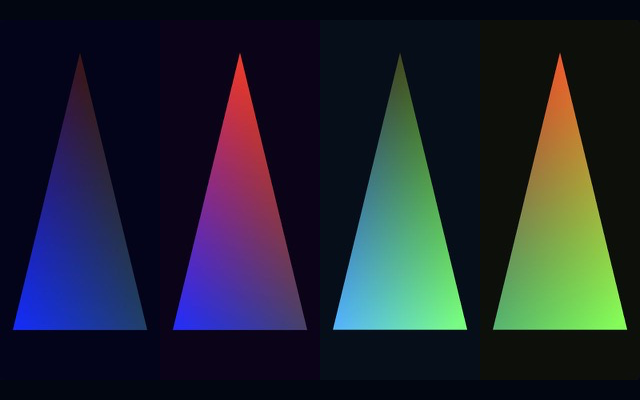
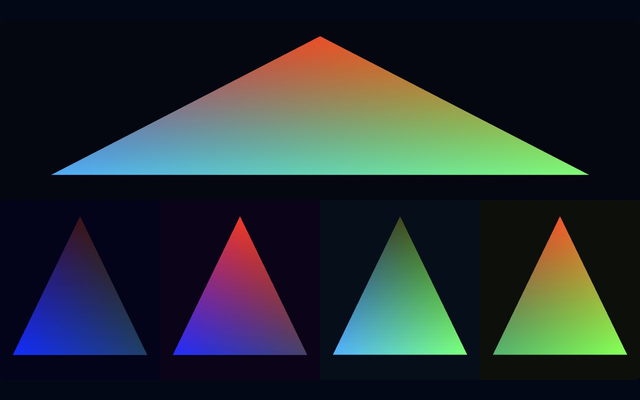
compare msaa resolve

diff --git a/samples/webgpu-gallery/index.html b/samples/webgpu-gallery/index.html
@@ -221,13 +221,13 @@
         <article class="sample-card">
           <a class="sample-preview" href="gpu-msaa-samples-webgpu-usl.html?v=@GPU_WEBGPU_GALLERY_VERSION@">
             <img src="previews/msaa-samples.png?v=@GPU_WEBGPU_GALLERY_VERSION@"
-                 alt="Four tinted previews of one multisampled triangle"
+                 alt="One resolved triangle above four tinted multisample previews"
                  width="640" height="400" loading="lazy" decoding="async">
           </a>
           <div>
             <small>Render / 16</small>
-            <h3><a href="gpu-msaa-samples-webgpu-usl.html?v=@GPU_WEBGPU_GALLERY_VERSION@">MSAA samples</a></h3>
-            <p>A 4x render target is rebound and each multisample value is read explicitly.</p>
+            <h3><a href="gpu-msaa-samples-webgpu-usl.html?v=@GPU_WEBGPU_GALLERY_VERSION@">MSAA resolve + samples</a></h3>
+            <p>Hardware resolve and four explicit sample reads share one 4x render target.</p>
           </div>
         </article>
       </div>

diff --git a/samples/msaa-samples-webgpu-usl/main.c b/samples/msaa-samples-webgpu-usl/main.c
@@ -17,9 +17,12 @@ typedef struct WebGPUMSAASamples {
   GPUShaderLibrary  *library;
   GPUShaderLayout   *shaderLayout;
   GPURenderPipeline *sourcePipeline;
-  GPURenderPipeline *previewPipeline;
+  GPURenderPipeline *resolvePipeline;
+  GPURenderPipeline *samplePipeline;
   GPUTexture        *colorTexture;
+  GPUTexture        *resolveTexture;
   GPUTextureView    *colorView;
+  GPUTextureView    *resolveView;
   GPUBindGroup      *previewGroup;
   WebGPURequest      request;
   uint32_t           width;
@@ -50,16 +53,20 @@ device_error(GPUDevice                *device,
 }
 
 static int
-create_color_target(WebGPUMSAASamples *state,
-                    uint32_t           width,
-                    uint32_t           height) {
+create_color_targets(WebGPUMSAASamples *state,
+                     uint32_t           width,
+                     uint32_t           height) {
+  GPUTexture              *colorTexture;
+  GPUTexture              *resolveTexture;
+  GPUTextureView          *colorView;
+  GPUTextureView          *resolveView;
   GPUTextureCreateInfo     textureInfo = {0};
   GPUTextureViewCreateInfo viewInfo    = {0};
-  GPUTexture              *texture;
-  GPUTextureView          *view;
 
-  texture = NULL;
-  view    = NULL;
+  colorTexture   = NULL;
+  resolveTexture = NULL;
+  colorView      = NULL;
+  resolveView    = NULL;
   textureInfo.chain.sType      = GPU_STRUCTURE_TYPE_TEXTURE_CREATE_INFO;
   textureInfo.chain.structSize = sizeof(textureInfo);
   textureInfo.label            = "msaa-samples-webgpu-color";
@@ -72,7 +79,9 @@ create_color_target(WebGPUMSAASamples *state,
   textureInfo.sampleCount      = SAMPLE_COUNT;
   textureInfo.usage            = GPU_TEXTURE_USAGE_COLOR_TARGET |
                                  GPU_TEXTURE_USAGE_SAMPLED;
-  if (GPUCreateTexture(state->device, &textureInfo, &texture) != GPU_OK) {
+  if (GPUCreateTexture(state->device,
+                       &textureInfo,
+                       &colorTexture) != GPU_OK) {
     set_status("GPU: failed to create the sampled 4x color texture", 1);
     return 0;
   }
@@ -84,18 +93,42 @@ create_color_target(WebGPUMSAASamples *state,
   viewInfo.format           = textureInfo.format;
   viewInfo.mipLevelCount    = 1u;
   viewInfo.arrayLayerCount  = 1u;
-  if (GPUCreateTextureView(texture, &viewInfo, &view) != GPU_OK) {
-    GPUDestroyTexture(texture);
+  if (GPUCreateTextureView(colorTexture, &viewInfo, &colorView) != GPU_OK) {
+    GPUDestroyTexture(colorTexture);
     set_status("GPU: failed to create the sampled 4x color view", 1);
+    return 0;
+  }
+
+  textureInfo.label       = "msaa-samples-webgpu-resolve";
+  textureInfo.sampleCount = 1u;
+  if (GPUCreateTexture(state->device,
+                       &textureInfo,
+                       &resolveTexture) != GPU_OK) {
+    GPUDestroyTextureView(colorView);
+    GPUDestroyTexture(colorTexture);
+    set_status("GPU: failed to create the sampled resolve texture", 1);
+    return 0;
+  }
+
+  viewInfo.label = "msaa-samples-webgpu-resolve-view";
+  if (GPUCreateTextureView(resolveTexture, &viewInfo, &resolveView) != GPU_OK) {
+    GPUDestroyTexture(resolveTexture);
+    GPUDestroyTextureView(colorView);
+    GPUDestroyTexture(colorTexture);
+    set_status("GPU: failed to create the sampled resolve view", 1);
     return 0;
   }
 
   GPUDestroyBindGroup(state->previewGroup);
   GPUDestroyTextureView(state->colorView);
+  GPUDestroyTextureView(state->resolveView);
   GPUDestroyTexture(state->colorTexture);
-  state->previewGroup = NULL;
-  state->colorTexture = texture;
-  state->colorView    = view;
+  GPUDestroyTexture(state->resolveTexture);
+  state->previewGroup   = NULL;
+  state->colorTexture   = colorTexture;
+  state->resolveTexture = resolveTexture;
+  state->colorView      = colorView;
+  state->resolveView    = resolveView;
   return 1;
 }
 
@@ -115,7 +148,7 @@ resize_canvas(WebGPUMSAASamples *state) {
     return 1;
   }
   if (state->swapchain) {
-    if (!create_color_target(state, state->width, state->height) ||
+    if (!create_color_targets(state, state->width, state->height) ||
         (state->shaderLayout && !create_group(state))) {
       state->width  = 0u;
       state->height = 0u;
@@ -128,6 +161,8 @@ resize_canvas(WebGPUMSAASamples *state) {
 static int
 create_shader(WebGPUMSAASamples *state) {
   const GPUBindGroupLayoutEntry *entries;
+  const GPUBindGroupLayoutEntry *msaaEntry;
+  const GPUBindGroupLayoutEntry *resolveEntry;
   void                          *artifact;
   uint64_t                       artifactSize;
   uint32_t                       entryCount;
@@ -160,14 +195,28 @@ create_shader(WebGPUMSAASamples *state) {
     state->shaderLayout->bindGroupLayouts[0],
     &entryCount
   );
-  if (!entries || entryCount != 1u || entries[0].binding != 0u ||
-      entries[0].bindingType != GPU_BINDING_SAMPLED_TEXTURE ||
-      entries[0].visibility != GPU_SHADER_STAGE_FRAGMENT_BIT ||
-      entries[0].sampledTexture.viewType != GPU_TEXTURE_VIEW_2D ||
-      entries[0].sampledTexture.sampleType !=
+  msaaEntry    = NULL;
+  resolveEntry = NULL;
+  for (uint32_t i = 0u; entries && i < entryCount; i++) {
+    if (entries[i].binding == 0u) {
+      msaaEntry = &entries[i];
+    } else if (entries[i].binding == 1u) {
+      resolveEntry = &entries[i];
+    }
+  }
+  if (entryCount != 2u || !msaaEntry || !resolveEntry ||
+      msaaEntry->bindingType != GPU_BINDING_SAMPLED_TEXTURE ||
+      msaaEntry->visibility != GPU_SHADER_STAGE_FRAGMENT_BIT ||
+      msaaEntry->sampledTexture.viewType != GPU_TEXTURE_VIEW_2D ||
+      msaaEntry->sampledTexture.sampleType !=
         GPU_TEXTURE_SAMPLE_TYPE_UNFILTERABLE_FLOAT ||
-      !entries[0].sampledTexture.multisampled) {
-    set_status("GPU: missing reflected multisampled texture binding", 1);
+      !msaaEntry->sampledTexture.multisampled ||
+      resolveEntry->bindingType != GPU_BINDING_SAMPLED_TEXTURE ||
+      resolveEntry->visibility != GPU_SHADER_STAGE_FRAGMENT_BIT ||
+      resolveEntry->sampledTexture.viewType != GPU_TEXTURE_VIEW_2D ||
+      resolveEntry->sampledTexture.sampleType != GPU_TEXTURE_SAMPLE_TYPE_FLOAT ||
+      resolveEntry->sampledTexture.multisampled) {
+    set_status("GPU: missing reflected MSAA or resolve texture binding", 1);
     return 0;
   }
   return 1;
@@ -210,14 +259,24 @@ create_pipelines(WebGPUMSAASamples *state) {
   previewInfo                           = sourceInfo;
   previewInfo.label                     = "msaa-samples-webgpu-preview";
   previewInfo.vertexEntry               = "sample_preview_vs";
-  previewInfo.fragmentEntry             = "sample_preview_fs";
+  previewInfo.fragmentEntry             = "resolve_preview_fs";
   previewInfo.pColorTargets             = &previewColor;
   previewInfo.multisample.sampleCount   = 1u;
   if (GPUCreateRenderPipeline(state->device,
                               &previewInfo,
-                              &state->previewPipeline) != GPU_OK ||
-      !state->previewPipeline) {
-    set_status("GPU: failed to create the MSAA sample preview pipeline", 1);
+                              &state->resolvePipeline) != GPU_OK ||
+      !state->resolvePipeline) {
+    set_status("GPU: failed to create the MSAA resolve preview pipeline", 1);
+    return 0;
+  }
+
+  previewInfo.label         = "msaa-samples-webgpu-sample-preview";
+  previewInfo.fragmentEntry = "sample_preview_fs";
+  if (GPUCreateRenderPipeline(state->device,
+                              &previewInfo,
+                              &state->samplePipeline) != GPU_OK ||
+      !state->samplePipeline) {
+    set_status("GPU: failed to create the per-sample preview pipeline", 1);
     return 0;
   }
   return 1;
@@ -225,20 +284,23 @@ create_pipelines(WebGPUMSAASamples *state) {
 
 static int
 create_group(WebGPUMSAASamples *state) {
-  GPUBindGroupEntry      entry = {0};
-  GPUBindGroupCreateInfo info  = {0};
   GPUBindGroup          *group;
+  GPUBindGroupEntry      entries[2] = {0};
+  GPUBindGroupCreateInfo info       = {0};
 
-  group             = NULL;
-  entry.textureView = state->colorView;
-  entry.binding     = 0u;
-  entry.bindingType = GPU_BINDING_SAMPLED_TEXTURE;
+  group                  = NULL;
+  entries[0].textureView = state->colorView;
+  entries[0].binding     = 0u;
+  entries[0].bindingType = GPU_BINDING_SAMPLED_TEXTURE;
+  entries[1].textureView = state->resolveView;
+  entries[1].binding     = 1u;
+  entries[1].bindingType = GPU_BINDING_SAMPLED_TEXTURE;
   info.chain.sType      = GPU_STRUCTURE_TYPE_BIND_GROUP_CREATE_INFO;
   info.chain.structSize = sizeof(info);
   info.label            = "msaa-samples-webgpu-group";
   info.layout           = state->shaderLayout->bindGroupLayouts[0];
-  info.pEntries         = &entry;
-  info.entryCount       = 1u;
+  info.pEntries         = entries;
+  info.entryCount       = 2u;
   if (GPUCreateBindGroup(state->device,
                          &info,
                          &group) != GPU_OK ||
@@ -256,10 +318,11 @@ render_frame(void *userData) {
   GPUFrame                     *frame;
   GPUCommandBuffer             *cmdb;
   GPURenderPassEncoder         *pass;
-  GPUTextureBarrier             textureBarrier = {0};
-  GPUBarrierBatch               barrier        = {0};
-  GPURenderPassColorAttachment  color          = {0};
-  GPURenderPassCreateInfo       passInfo       = {0};
+  GPUTextureBarrier             textureBarriers[2] = {0};
+  GPUBarrierBatch               barrier            = {0};
+  GPURenderPassColorAttachment  color              = {0};
+  GPURenderPassCreateInfo       passInfo           = {0};
+  GPUViewport                   viewport           = {0};
 
   state = userData;
   if (!resize_canvas(state)) return;
@@ -277,6 +340,7 @@ render_frame(void *userData) {
   }
 
   color.view                  = state->colorView;
+  color.resolveView           = state->resolveView;
   color.loadOp                = GPU_LOAD_OP_CLEAR;
   color.storeOp               = GPU_STORE_OP_STORE;
   color.clearColor.float32[0] = 0.012f;
@@ -296,18 +360,21 @@ render_frame(void *userData) {
   GPUDraw(pass, 3u, 1u, 0u, 0u);
   GPUEndRenderPass(pass);
 
-  textureBarrier.texture    = state->colorTexture;
-  textureBarrier.srcAccess  = GPU_ACCESS_COLOR_WRITE;
-  textureBarrier.dstAccess  = GPU_ACCESS_SHADER_READ;
-  textureBarrier.mipCount   = 1u;
-  textureBarrier.layerCount = 1u;
-  barrier.pTextureBarriers    = &textureBarrier;
+  textureBarriers[0].texture    = state->colorTexture;
+  textureBarriers[0].srcAccess  = GPU_ACCESS_COLOR_WRITE;
+  textureBarriers[0].dstAccess  = GPU_ACCESS_SHADER_READ;
+  textureBarriers[0].mipCount   = 1u;
+  textureBarriers[0].layerCount = 1u;
+  textureBarriers[1]             = textureBarriers[0];
+  textureBarriers[1].texture     = state->resolveTexture;
+  barrier.pTextureBarriers    = textureBarriers;
   barrier.srcStages           = GPU_STAGE_FRAGMENT;
   barrier.dstStages           = GPU_STAGE_FRAGMENT;
-  barrier.textureBarrierCount = 1u;
+  barrier.textureBarrierCount = 2u;
   GPUEncodeBarriers(cmdb, &barrier);
 
   color.view                  = GPUFrameGetTargetView(frame);
+  color.resolveView           = NULL;
   color.loadOp                = GPU_LOAD_OP_CLEAR;
   color.storeOp               = GPU_STORE_OP_STORE;
   color.clearColor.float32[0] = 0.006f;
@@ -320,13 +387,24 @@ render_frame(void *userData) {
     GPUEndFrame(frame);
     return;
   }
-  GPUBindRenderPipeline(pass, state->previewPipeline);
+  viewport.width    = (float)state->width;
+  viewport.height   = (float)state->height * 0.5f;
+  viewport.minDepth = 0.0f;
+  viewport.maxDepth = 1.0f;
+  GPUBindRenderPipeline(pass, state->resolvePipeline);
   GPUBindRenderGroup(pass, 0u, state->previewGroup, 0u, NULL);
+  GPUSetViewport(pass, &viewport);
+  GPUDraw(pass, 6u, 1u, 0u, 0u);
+
+  viewport.y = viewport.height;
+  GPUBindRenderPipeline(pass, state->samplePipeline);
+  GPUBindRenderGroup(pass, 0u, state->previewGroup, 0u, NULL);
+  GPUSetViewport(pass, &viewport);
   GPUDraw(pass, 6u, 1u, 0u, 0u);
   GPUEndRenderPass(pass);
 
   if (GPUFinishFrame(state->queue, cmdb, frame) != GPU_OK) {
-    set_status("GPU: failed to finish the per-sample MSAA frame", 1);
+    set_status("GPU: failed to finish the MSAA comparison frame", 1);
     return;
   }
 
@@ -335,7 +413,7 @@ render_frame(void *userData) {
     GPUFrameStats stats;
 
     if (GPUGetLastFrameStats(state->device, &stats) == GPU_OK &&
-        (stats.drawCalls != 2u || stats.hotPathAllocCount != 0u ||
+        (stats.drawCalls != 3u || stats.hotPathAllocCount != 0u ||
          stats.hotPathFreeCount != 0u)) {
       set_status("GPU: invalid warm MSAA sample frame stats", 1);
       emscripten_cancel_main_loop();
@@ -392,14 +470,14 @@ webgpu_ready(GPUResult  result,
     set_status("GPU: failed to create the WebGPU swapchain", 1);
     return;
   }
-  if (!create_color_target(state, state->width, state->height) ||
+  if (!create_color_targets(state, state->width, state->height) ||
       !create_shader(state) ||
       !create_pipelines(state) ||
       !create_group(state)) {
     return;
   }
 
-  set_status("GPU: WebGPU USL per-sample MSAA read ready", 0);
+  set_status("GPU: WebGPU USL MSAA resolve and samples ready", 0);
   emscripten_set_main_loop_arg(render_frame, state, 0, true);
 }
 